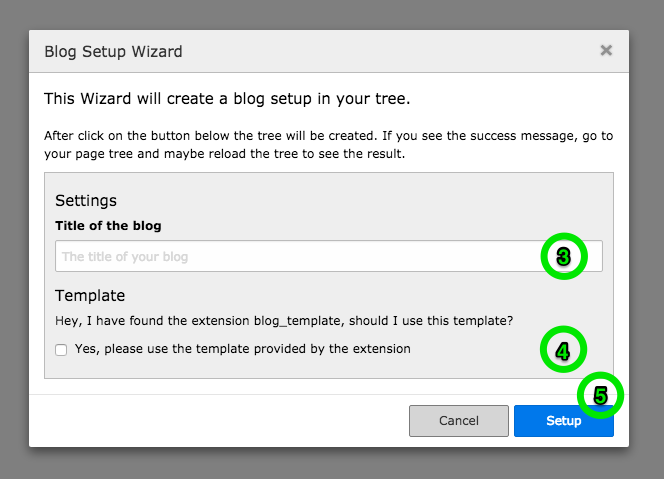
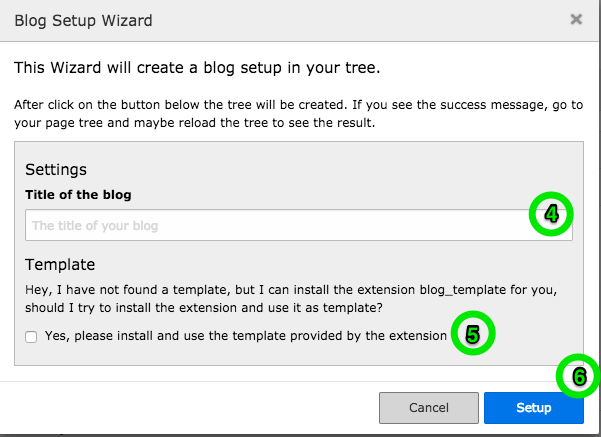
[TASK] Refactor backend module

diff --git a/Resources/Private/Partials/Backend/Navigation.html b/Resources/Private/Partials/Backend/Navigation.html
@@ -1,4 +1,4 @@
 <ul class="nav nav-tabs">
-  <li role="presentation" class="{f:if(condition: '{action} == \'indexAction\'', then: 'active')}"><f:link.action action="index"><f:translate key="backend.headline" /></f:link.action></li>
   <li role="presentation" class="{f:if(condition: '{action} == \'postsAction\'', then: 'active')}"><f:link.action action="posts"><f:translate key="backend.headline.posts" /></f:link.action></li>
+  <li role="presentation" class="{f:if(condition: '{action} == \'setupWizardAction\'', then: 'active')}"><f:link.action action="setupWizard"><f:translate key="backend.headline.setup_wizard" /></f:link.action></li>
 </ul>

diff --git a/Resources/Private/Templates/Backend/SetupWizard.html b/Resources/Private/Templates/Backend/SetupWizard.html
@@ -1,7 +1,7 @@
 <f:layout name="Backend" />
 
 <f:section name="intro">
-  <h1><f:translate key="backend.headline" /></h1>
+  <h1><f:translate key="backend.headline.setup_wizard" /></h1>
   <p class="lead"><f:translate key="backend.lead.blogs" /></p>
 </f:section>
 

diff --git a/Classes/Controller/BackendController.php b/Classes/Controller/BackendController.php
@@ -88,7 +88,7 @@ class BackendController extends ActionController
         $pageRenderer = $this->moduleTemplate->getPageRenderer();
         $pageRenderer->addCssFile('EXT:blog/Resources/Public/Css/bootstrap.min.css');
         $pageRenderer->addCssFile('EXT:blog/Resources/Public/Css/backend.css');
-        if ($this->actionMethodName === 'indexAction') {
+        if ($this->actionMethodName === 'setupWizardAction') {
             $pageRenderer->loadRequireJsModule('TYPO3/CMS/Blog/SetupWizard');
         }
         if ($this->actionMethodName === 'postsAction') {
@@ -118,9 +118,9 @@ class BackendController extends ActionController
      * @return string
      * @throws \BadFunctionCallException
      */
-    public function indexAction()
+    public function setupWizardAction()
     {
-        return $this->render('Backend/Index.html', [
+        return $this->render('Backend/SetupWizard.html', [
             'blogSetups' => $this->setupService->determineBlogSetups(),
             'templateExists' => ExtensionManagementUtility::isLoaded('blog_template')
         ]);

diff --git a/ext_tables.php b/ext_tables.php
@@ -91,7 +91,7 @@ call_user_func(function () {
             'tx_Blog',
             'top',
             [
-                'Backend' => 'index, createBlog, posts'
+                'Backend' => 'posts, setupWizard, createBlog'
             ],
             [
                 'access' => 'admin',

diff --git a/Documentation/Administrators/Index.rst b/Documentation/Administrators/Index.rst
@@ -43,22 +43,23 @@ The Setup Wizard creates the recommended pagetree and it will add all configurat
 To create a new blog setup, follow these steps:
 
 1. Click on the blog module in the backend
-2. Click on the "Setup a new blog" button
+2. Click on the "SetupWizard" tab
+3. Click on the "Setup a new blog" button
 
 .. figure:: ../Images/Backend/setup_wizard_1.png
 
    Create a new blog setup structure
 
-3. Enter a title for the blog setup
-4. If the extension "blog_template" is installed, you can use the provided template by enabling the checkbox.
+4. Enter a title for the blog setup
+5. If the extension "blog_template" is installed, you can use the provided template by enabling the checkbox.
    If the extension "blog_template" is **not** installed, you can install and use it by enabling the checkbox.
-5. Click on the "Setup" button, to create the blog setup.
+6. Click on the "Setup" button, to create the blog setup.
 
 .. figure:: ../Images/Backend/setup_wizard_2.png
 
    Modal with setup options
 
-6. If the success message appears, the setup is done. Go to your page tree (maybe reload the tree) and you will see the generated page structure.
+7. If the success message appears, the setup is done. Go to your page tree (maybe reload the tree) and you will see the generated page structure.
 
 .. figure:: ../Images/Backend/setup_wizard_3.png
 
